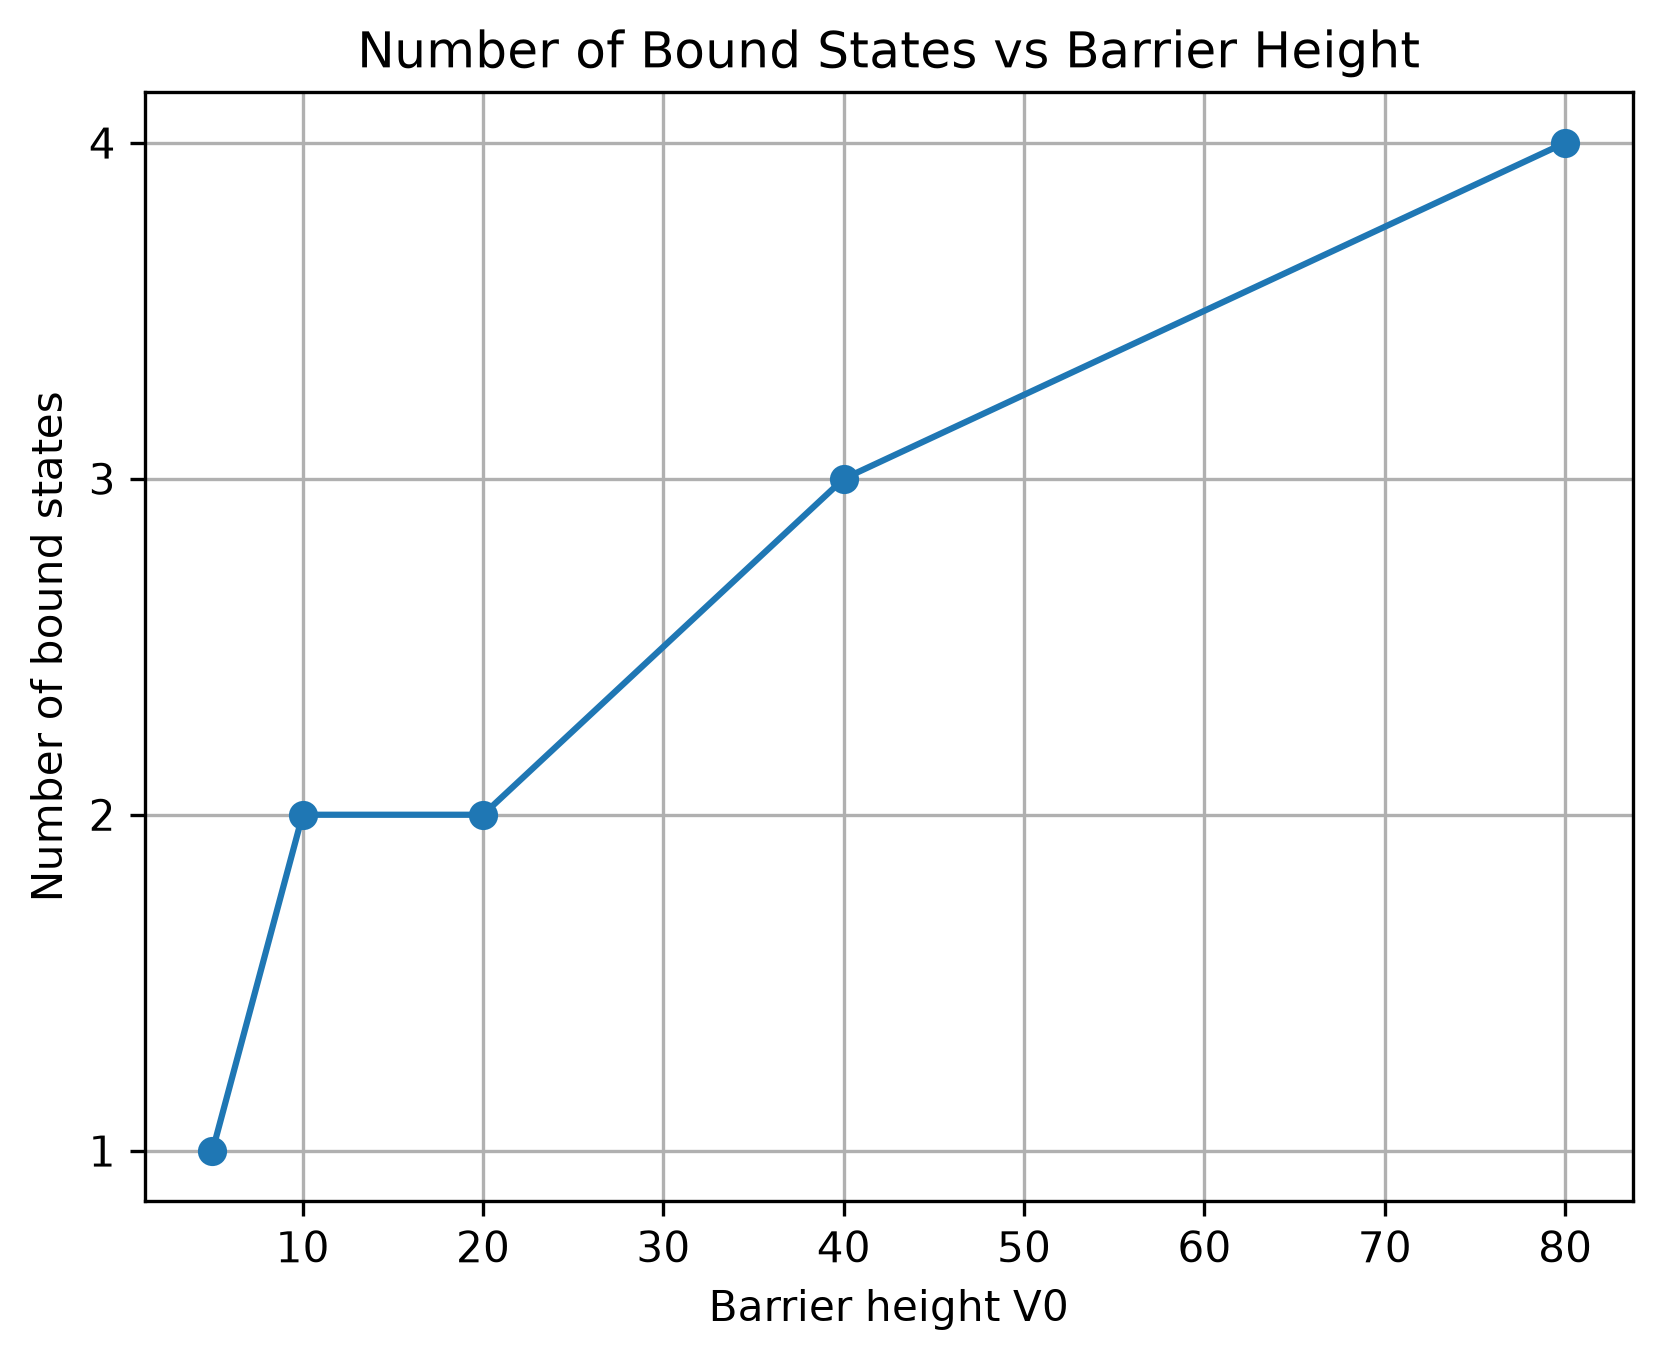
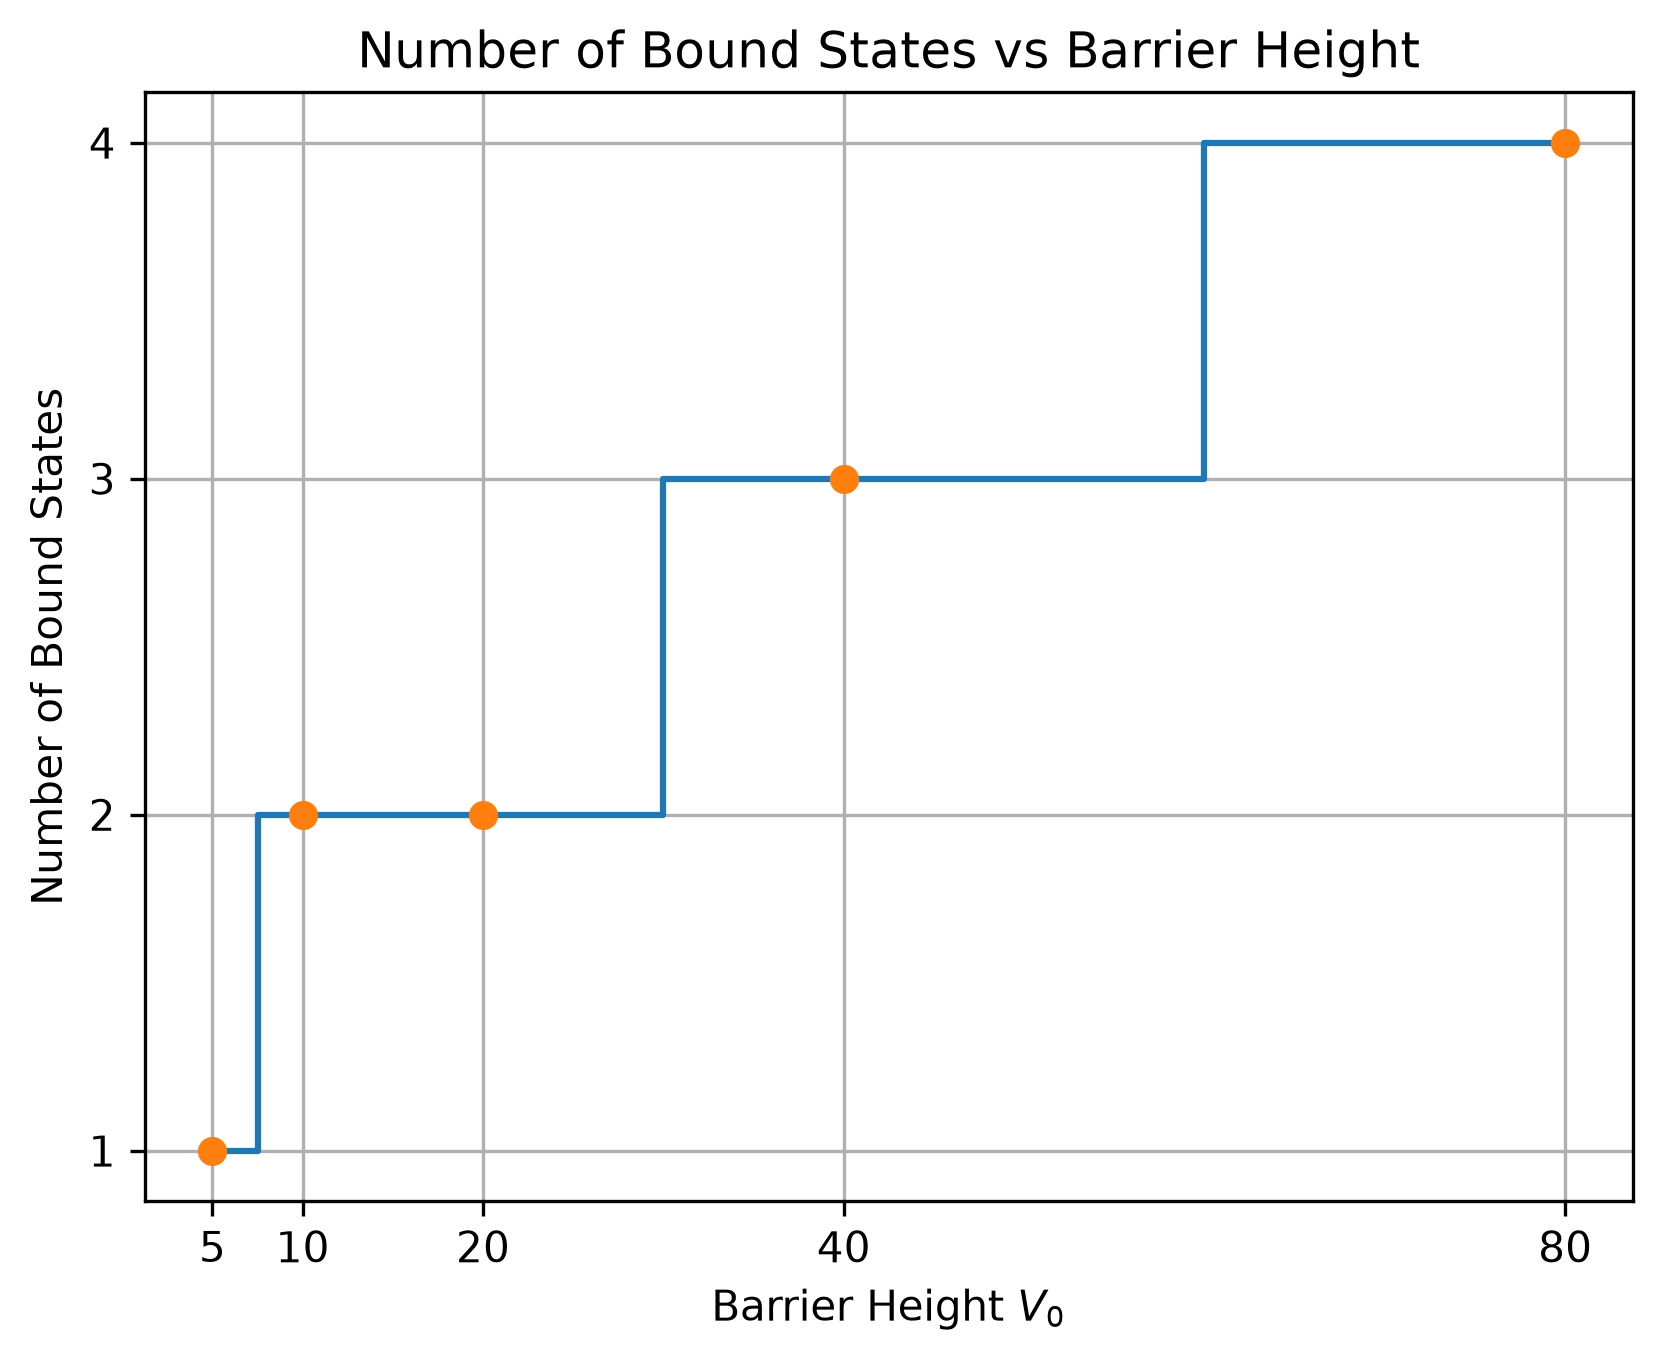
Refactor finite well depth study and use step plot

diff --git a/finite_well_depth_study.py b/finite_well_depth_study.py
@@ -1,59 +1,92 @@
 import numpy as np
 import matplotlib.pyplot as plt
 
+from quantum_utils import (
+    solve_schrodinger,
+    find_bound_states
+)
+
+
+# Finite square well parameters
+
 hbar = 1
-m = 1
+mass = 1
 L = 1
 
 num_points = 800
 x = np.linspace(-2, 2, num_points)
-dx = x[1] - x[0]
 
 V0_values = [5, 10, 20, 40, 80]
 
 bound_state_counts = []
 
+
+# Calculate the number of bound states for each barrier height
+
 for V0 in V0_values:
-    V = np.where(np.abs(x) <= L / 2, 0, V0)
 
-    main_diagonal = (
-        np.full(num_points, hbar**2 / (m * dx**2))
-        + V
+    # Finite square well potential:
+    # V(x) = 0 inside the well
+    # V(x) = V0 outside the well
+
+    potential = np.where(
+        np.abs(x) <= L / 2,
+        0,
+        V0
     )
 
-    off_diagonal = np.full(
-        num_points - 1,
-        -hbar**2 / (2 * m * dx**2)
+    energies, wavefunctions = solve_schrodinger(
+        x,
+        potential,
+        hbar=hbar,
+        mass=mass
     )
 
-    H = (
-        np.diag(main_diagonal)
-        + np.diag(off_diagonal, 1)
-        + np.diag(off_diagonal, -1)
+    bound_energies, bound_wavefunctions = find_bound_states(
+        energies,
+        wavefunctions,
+        V0
     )
 
-    energies = np.linalg.eigvalsh(H)
-    bound_energies = energies[energies < V0]
+    number_of_bound_states = len(bound_energies)
 
-    bound_state_counts.append(len(bound_energies))
+    bound_state_counts.append(number_of_bound_states)
 
     print(
         f"V0 = {V0:4}, "
-        f"number of bound states = {len(bound_energies)}"
+        f"number of bound states = {number_of_bound_states}"
     )
 
+
+# Plot the number of bound states against barrier height
+
 plt.figure()
+
+plt.step(
+    V0_values,
+    bound_state_counts,
+    where="mid"
+)
 
 plt.plot(
     V0_values,
     bound_state_counts,
-    "o-"
+    "o"
 )
 
-plt.xlabel("Barrier height V0")
-plt.ylabel("Number of bound states")
+plt.xlabel(r"Barrier Height $V_0$")
+plt.ylabel("Number of Bound States")
 plt.title("Number of Bound States vs Barrier Height")
-plt.yticks(range(min(bound_state_counts), max(bound_state_counts) + 1))
+
+plt.xticks(V0_values)
+
+plt.yticks(
+    range(
+        min(bound_state_counts),
+        max(bound_state_counts) + 1
+    )
+)
+
 plt.grid()
 
 plt.savefig(